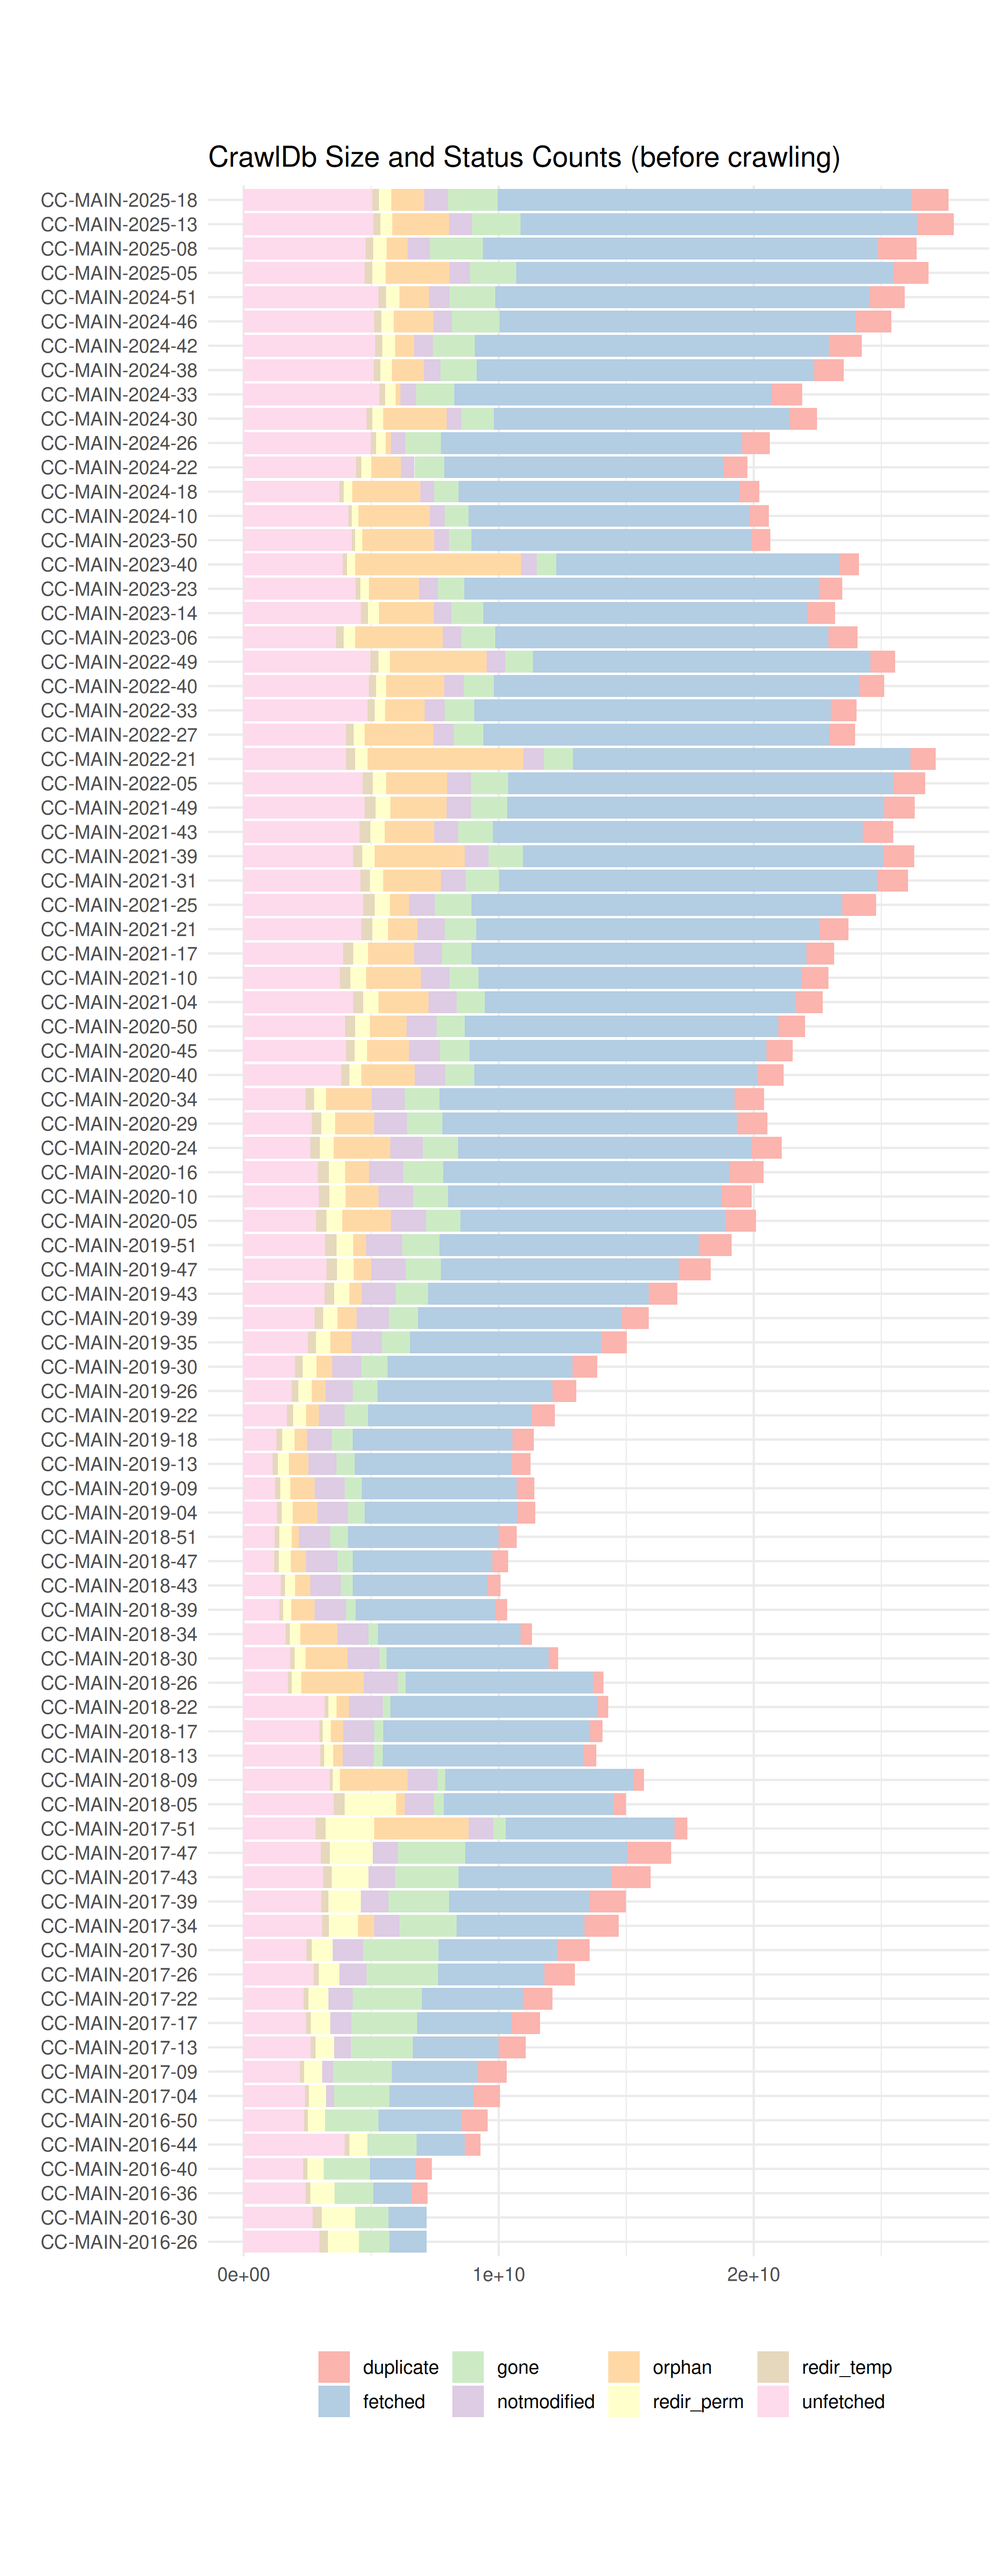
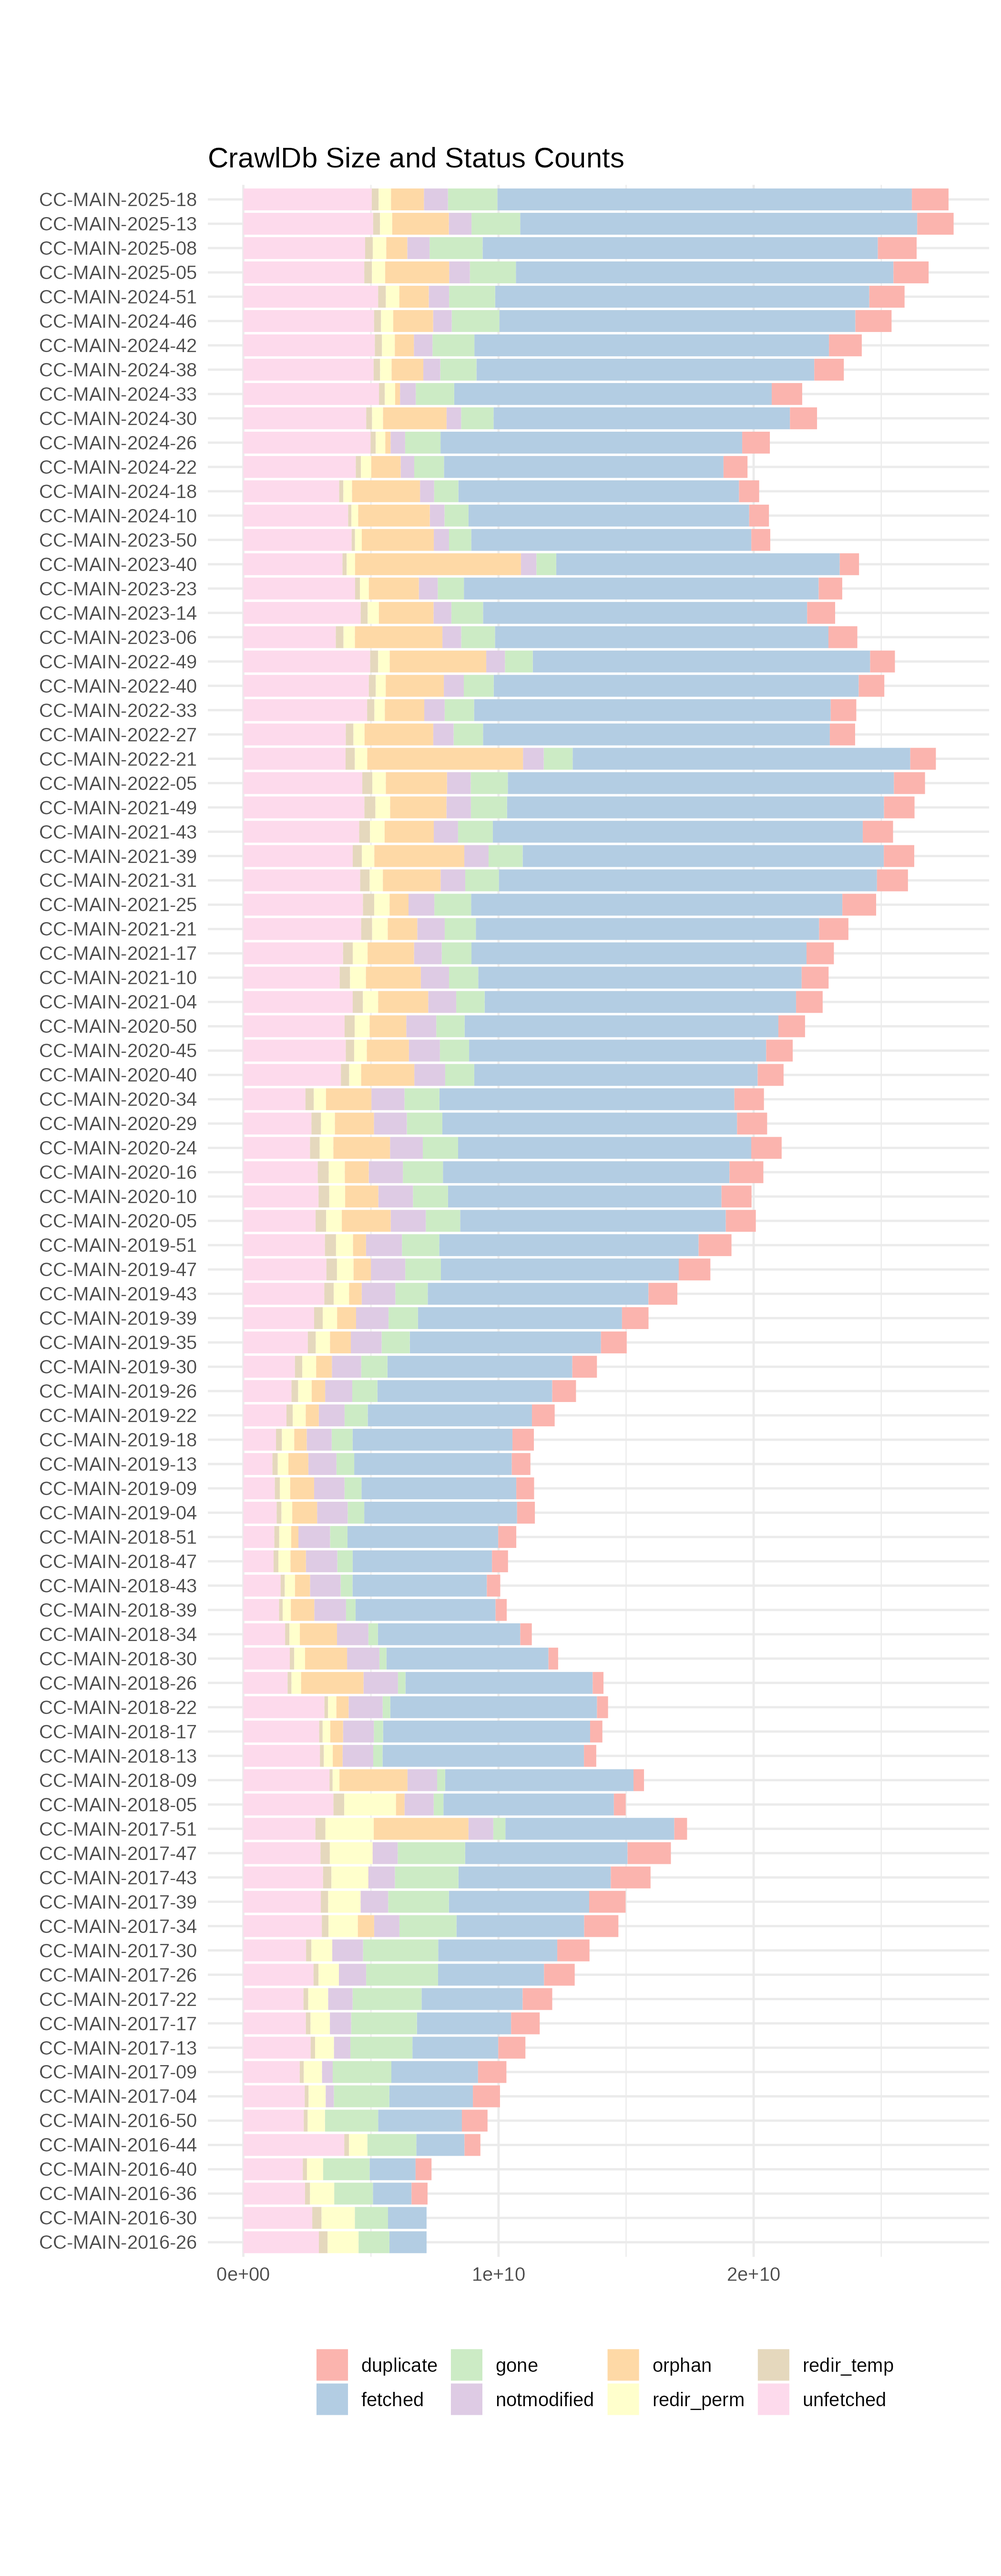
feat: add CrawlDb size and status to crawler metrics

diff --git a/plot/crawler_metrics.py b/plot/crawler_metrics.py
@@ -173,7 +173,7 @@ class CrawlerMetrics(CrawlSizePlot):
             + GGPLOT2_THEME \
             + ggplot2.theme(**{'legend.position': 'bottom',
                                'aspect.ratio': ratio}) \
-            + ggplot2.labs(title='CrawlDb Size and Status Counts (before crawling)',
+            + ggplot2.labs(title='CrawlDb Size and Status Counts',
                            x='', y='', fill='')
         img_path = os.path.join(PLOTDIR, img_file)
         p.save(img_path, height = int(7 * ratio), width = 7)

diff --git a/plots/crawlermetrics.md b/plots/crawlermetrics.md
@@ -22,3 +22,8 @@ The relative portion of the fetch status is shown in the second graphics.
 The next figure shows the relative usage of http and https URL protocols (schemes). The increasing usage HTTPS on the web is reflected. But also crawler properties such as sampling, deduplication and URL canonicalization) may influence the actual amount of HTTPS URLs in a single monthly crawl.
 
 ![Percentage of HTTP vs. HTTPS URLs](./crawler/url_protocols_percentage.png)
+
+The crawls are backed by a CrawlDb which stores URLs, fetch time, status information, content checksum and various other metadata. HTTP response codes are mapped to coarse [CrawlDatum states](https://cwiki.apache.org/confluence/display/NUTCH/CrawlDatumStates) and so are other status signals, such as disallowed by robots.txt or the result of a deduplication job. By adding permanently new URLs, the CrawlDb is growing and requires a permanent cleanup which removes stale URLs. The figure below shows the development of the CrawlDb over time, including the amount of CrawlDatum states. Size and counts are recorded before the fetching of a monthly crawl.
+
+![CrawlDb size and status counts](./crawler/crawldb_status.png)
+
